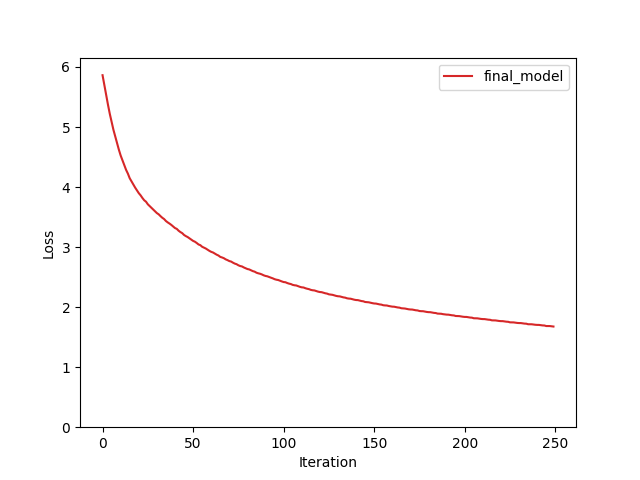
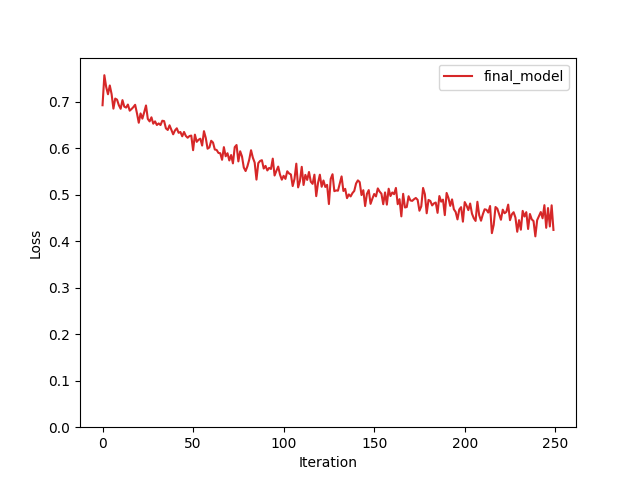
forgot to use l2 in reset

diff --git a/project1/models.py b/project1/models.py
@@ -53,7 +53,7 @@ class Baseline(Model):
         return x
 
     def reset(self):
-        self.__init__(self.generate_data, self.epochs, self.batch_size, self.lr)
+        self.__init__(self.generate_data, self.epochs, self.batch_size, self.lr, self.l2)
 
 
 class Auxiliary(Model):
@@ -105,7 +105,7 @@ class Auxiliary(Model):
         return digit_class, final_class
 
     def reset(self):
-        self.__init__(self.generate_data, self.epochs, self.batch_size, self.lr)
+        self.__init__(self.generate_data, self.epochs, self.batch_size, self.lr, self.l2)
 
 
 class CNN(Model):
@@ -165,7 +165,7 @@ class CNN(Model):
         return x
 
     def reset(self):
-        self.__init__(self.generate_data, self.epochs, self.batch_size, self.lr)
+        self.__init__(self.generate_data, self.epochs, self.batch_size, self.lr, self.l2)
 
 
 class CNN_Auxiliary(Model):
@@ -230,5 +230,47 @@ class CNN_Auxiliary(Model):
         return digit_class, final_class
 
     def reset(self):
-        self.__init__(self.generate_data, self.epochs, self.batch_size, self.lr)
+        self.__init__(self.generate_data, self.epochs, self.batch_size, self.lr, self.l2)
 
+
+class final_model(Model):
+    def __init__(self, f_gen_data, nb_epochs=25, mini_batch_size=100, learning_rate=1e-2,
+                 l2_rate=0):
+        super().__init__(f_gen_data, nb_epochs, mini_batch_size, learning_rate, l2_rate)
+
+        self.conv1a = nn.Conv2d(1, 16, kernel_size=3, padding=1, dilation=1, stride=1)
+        self.conv2_drop1a = nn.Dropout2d(p=0.5)
+        self.bn = nn.BatchNorm2d(16)
+        self.conv2a = nn.Conv2d(16, 16, kernel_size=2, padding=1, dilation=1, stride=1)
+        self.conv2_drop2a = nn.Dropout2d(p=0.5)
+
+        self.transfa = nn.Sequential(nn.Dropout(), nn.Linear(1600, 40), nn.ReLU(),
+                                     nn.Linear(40, 20), nn.Dropout(), nn.Linear(20, 10))
+        self.transf = nn.Sequential(nn.ReLU(), nn.Linear(20, 2))
+
+    def forward(self, x):
+        xa = x[:, 0, :, :].unsqueeze(1)
+        xb = x[:, 1, :, :].unsqueeze(1)
+
+        xa = F.max_pool2d(F.relu(self.bn(self.conv2_drop1a(self.conv1a(xa)))), padding=1,
+                          kernel_size=2, stride=2)
+        xa = F.max_pool2d(F.relu(self.bn(self.conv2_drop2a(self.conv2a(xa)))), padding=1,
+                          kernel_size=2, stride=1)
+        xa = self.transfa(xa.view(-1, 1600))
+
+        digitResa = xa
+        xa = F.relu(xa)
+
+        xb = F.max_pool2d(F.relu(self.bn(self.conv2_drop1a(self.conv1a(xb)))), padding=1,
+                          kernel_size=2, stride=2)
+        xb = F.max_pool2d(F.relu(self.bn(self.conv2_drop2a(self.conv2a(xb)))), padding=1,
+                          kernel_size=2, stride=1)
+        xb = self.transfa(xb.view(-1, 1600))
+        digitResb = xb
+        xb = F.relu(xb)
+        # print(xb.shape)
+        # print(x.view(-1,6400).shape)
+        return self.transf(torch.cat((xa, xb), dim=1))
+
+    def reset(self):
+        self.__init__(self.generate_data, self.epochs, self.batch_size, self.lr, self.l2)

diff --git a/project1/test.py b/project1/test.py
@@ -39,20 +39,23 @@ def train_and_test_rounds(model, nb_rounds, test_id):
 def main():
     number_rounds = 10
 
-    model1 = Baseline(generate_pair_sets)
-    mRes1 = train_and_test_rounds(model1, number_rounds, "Baseline")
+    # model1 = Baseline(generate_pair_sets)
+    # mRes1 = train_and_test_rounds(model1, number_rounds, "Baseline")
+    #
+    # model2 = Auxiliary(generate_pair_sets)
+    # mRes2 = train_and_test_rounds(model2, number_rounds, "Auxiliary")
+    #
+    # model3 = CNN(generate_pair_sets)
+    # mRes3 = train_and_test_rounds(model3, number_rounds, "CNN")
+    #
+    model4 = final_model(generate_pair_sets)
+    mRes4 = train_and_test_rounds(model4, number_rounds, "final_model")
 
-    model2 = Auxiliary(generate_pair_sets)
-    mRes2 = train_and_test_rounds(model2, number_rounds, "Auxiliary")
+    # model4 = CNN_Auxiliary(generate_pair_sets)
+    # mRes4 = train_and_test_rounds(model4, number_rounds, "CNN_Aux")
 
-    model3 = CNN(generate_pair_sets)
-    mRes3 = train_and_test_rounds(model3, number_rounds, "CNN")
-
-    model4 = CNN_Auxiliary(generate_pair_sets)
-    mRes4 = train_and_test_rounds(model4, number_rounds, "CNN_Aux")
-
-    # plot_models_results_comparison([mRes3, mRes4], number_rounds, True)
-    plot_models_results_comparison([mRes1, mRes2, mRes3, mRes4], number_rounds, True)
+    plot_models_results_comparison([mRes4], number_rounds, True)
+    # plot_models_results_comparison([mRes1, mRes2, mRes3, mRes4], number_rounds, True)
 
 
 if __name__ == '__main__':
